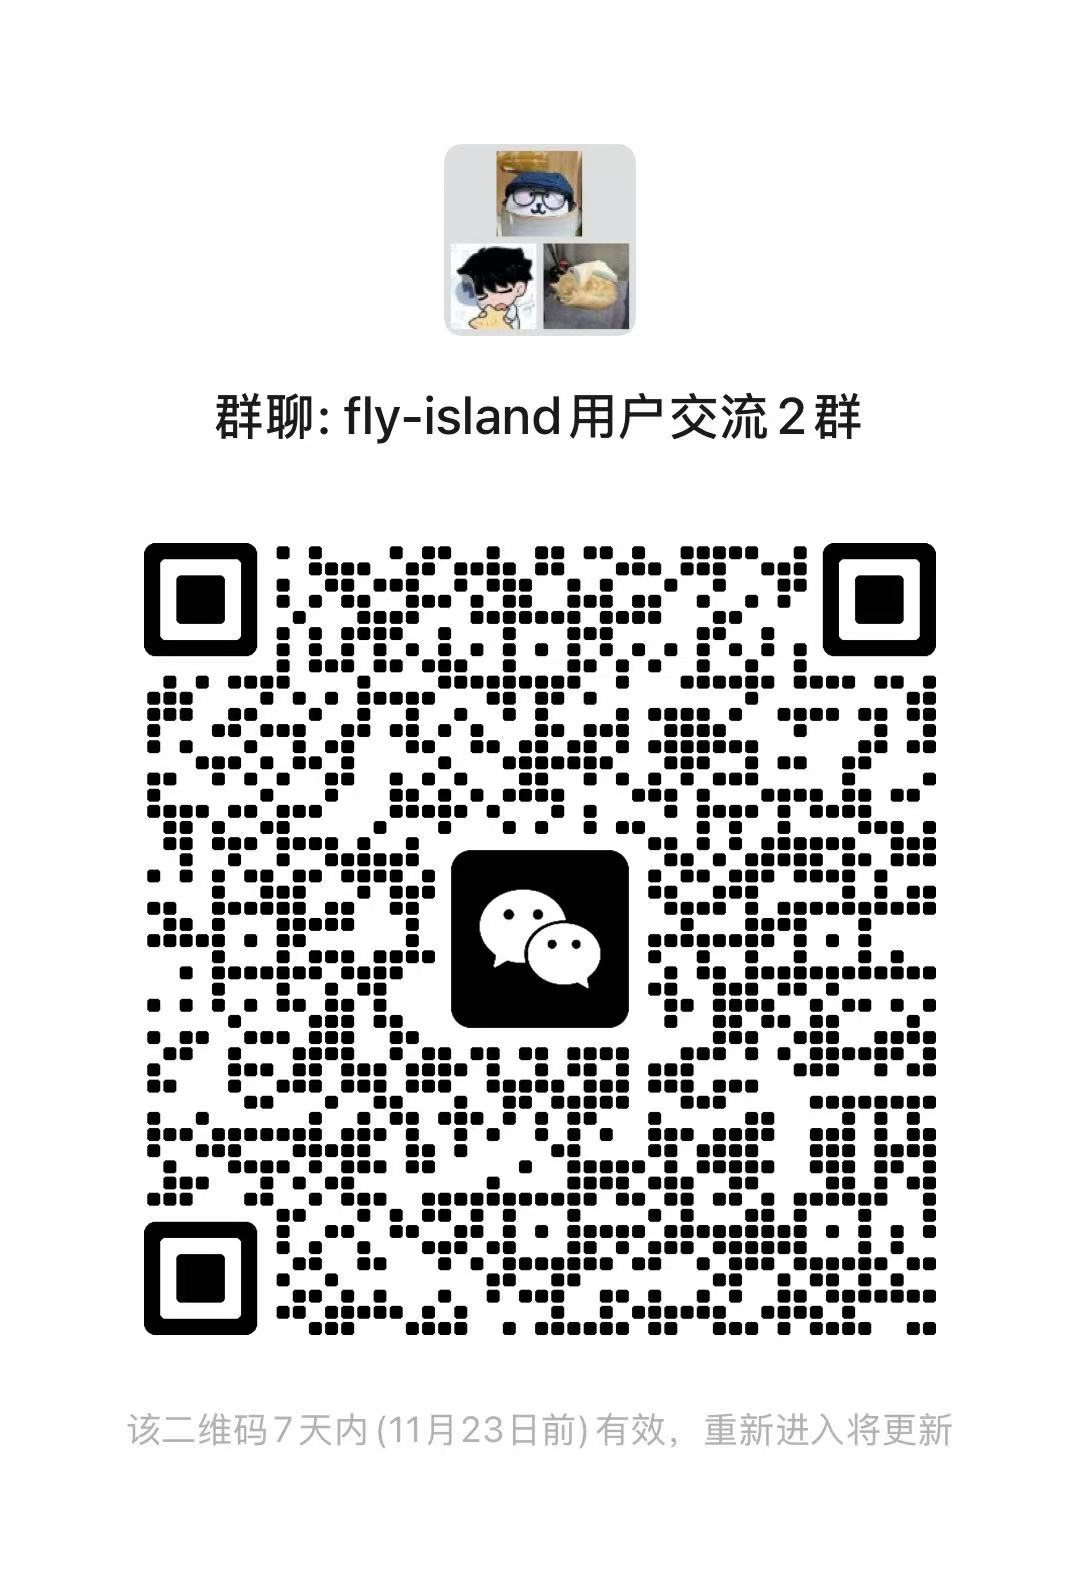
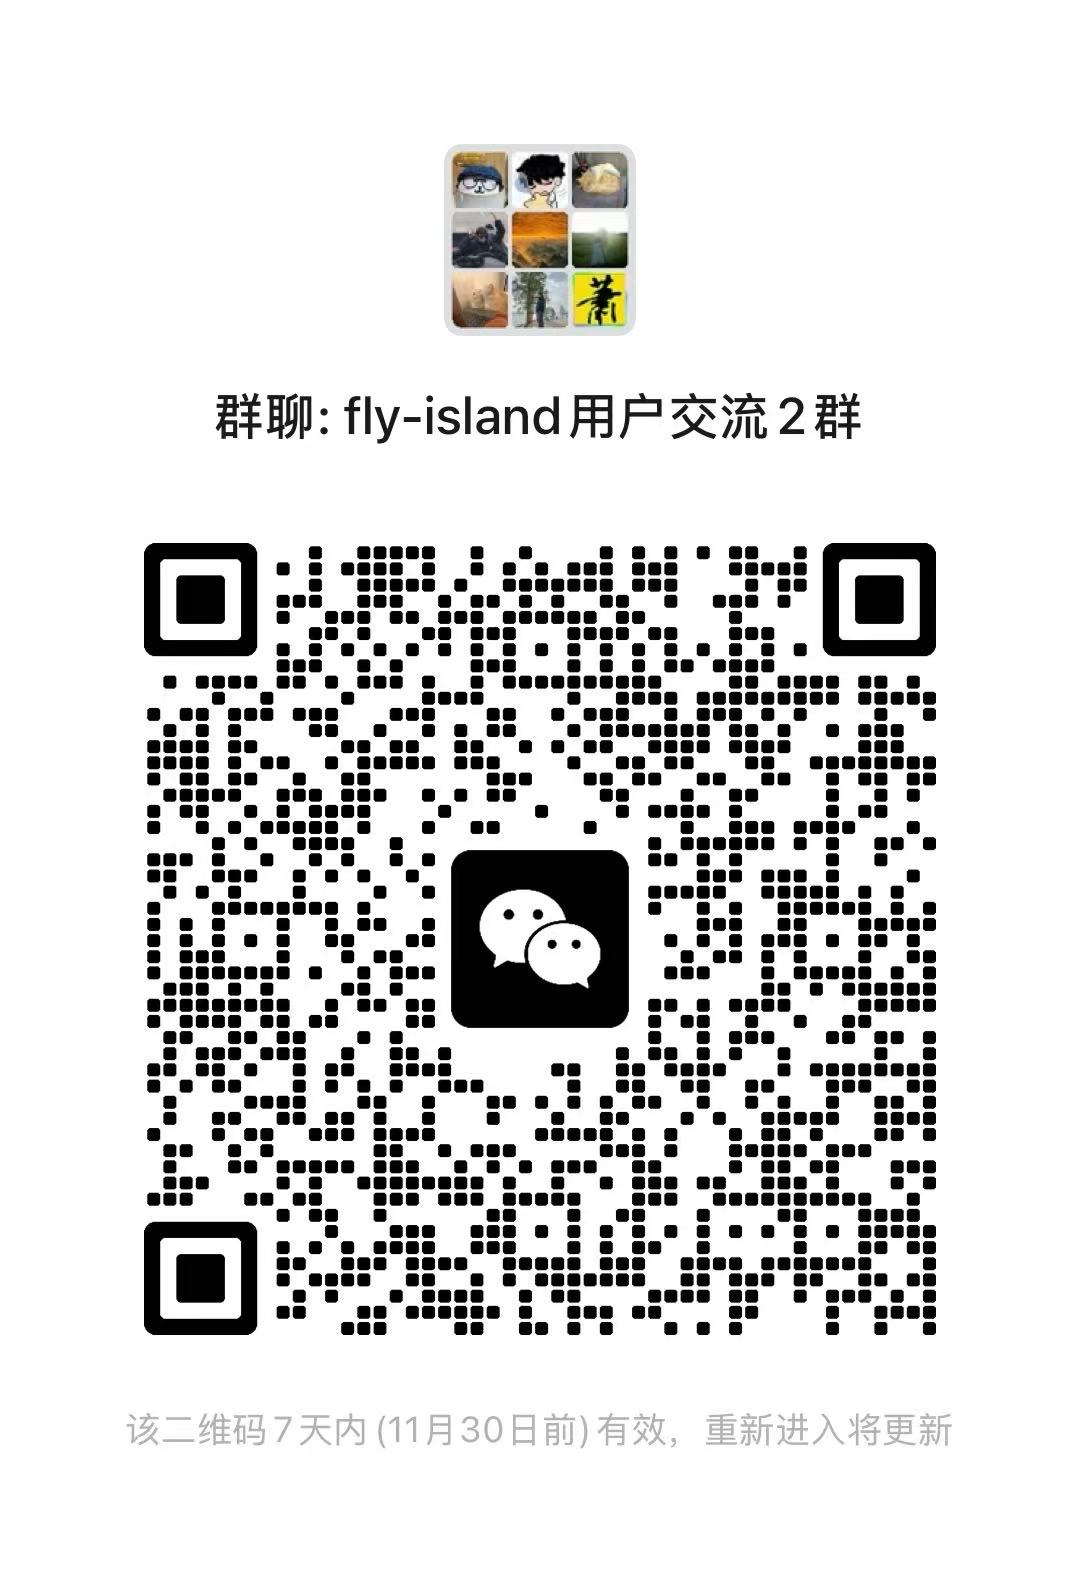
docs: 更新用户交流群二维码

diff --git a/README.en.md b/README.en.md
@@ -148,7 +148,7 @@ Scan the QR code with WeChat to join the user group (mostly Chinese-speaking). Y
 
 <p align="center"><img src="docs/assets/wechat-community.jpg" alt="fly-island WeChat community QR code" width="280"></p>
 
-<p align="center"><sub>The QR code is valid until November 23. If it has expired, please let us know in an <a href="https://github.com/flyl1u/fly-island/issues">Issue</a>.</sub></p>
+<p align="center"><sub>The QR code is valid until November 30. If it has expired, please let us know in an <a href="https://github.com/flyl1u/fly-island/issues">Issue</a>.</sub></p>
 
 ## Contributing
 
